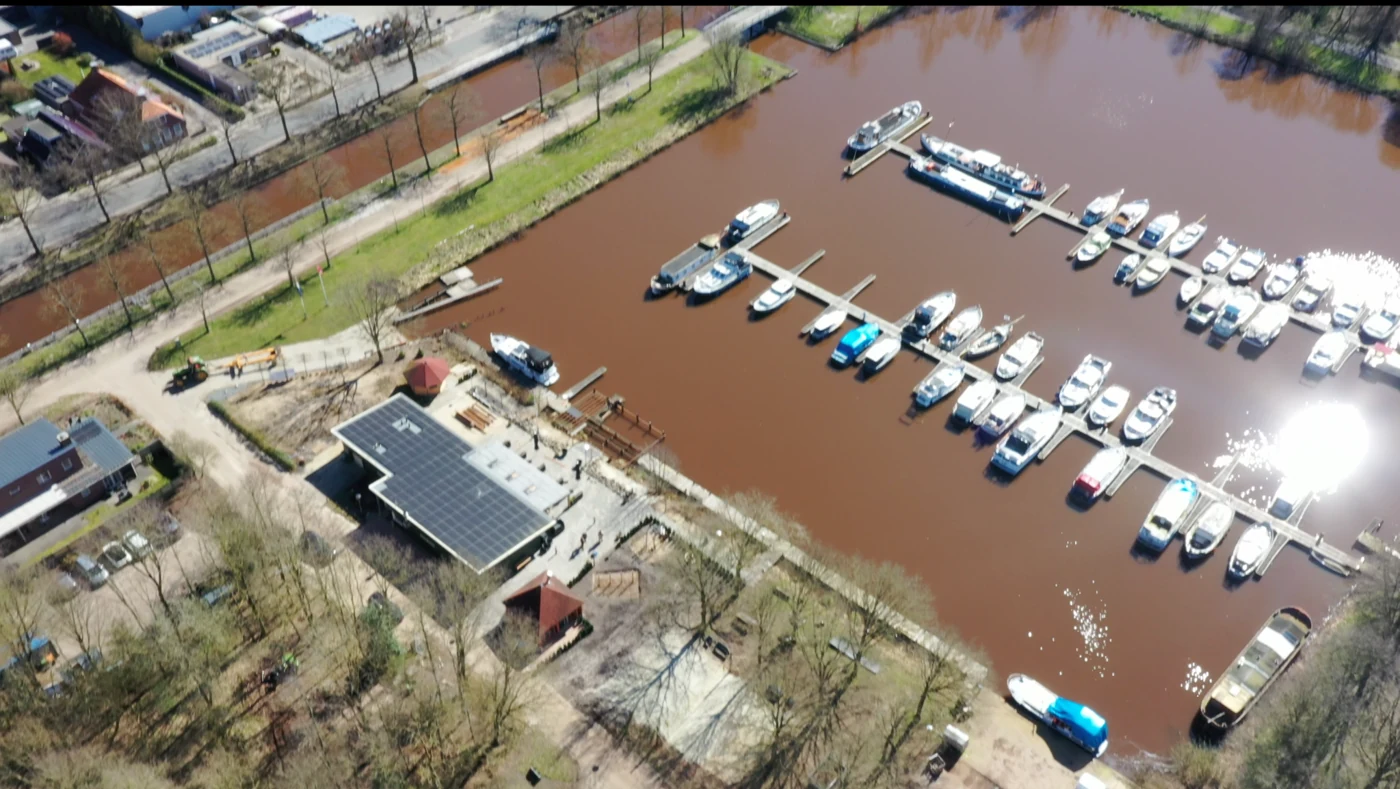
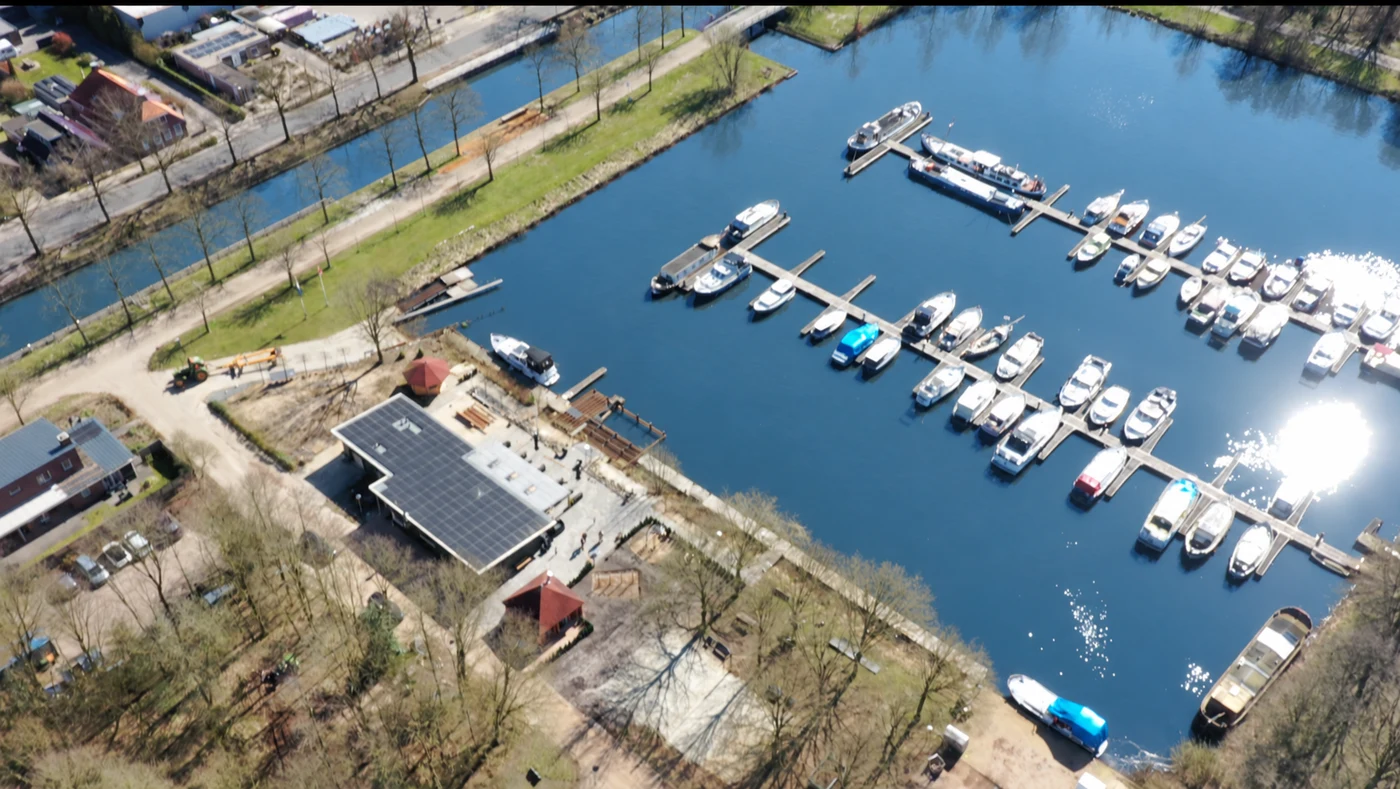
Refresh Amsterdam and marina images and reorder consultancy case studies

diff --git a/app/consultancy/CaseStudies.tsx b/app/consultancy/CaseStudies.tsx
@@ -51,12 +51,12 @@ export default async function CaseStudies() {
  const c = captions[locale] ?? captions.en;
  const unit = units[locale] ?? units.en;
  const projects = [
-  {image:'amsterdam-85-units', title:c[0]+' · 85 '+unit, location:'Amsterdam, '+c[6], width:888, height:1080},
+  {image:'amsterdam-85-units', title:c[0]+' · 85 '+unit, location:'Amsterdam, '+c[6], width:1400, height:1050},
   {image:'ijmuiden-transformatie', title:c[1]+' · '+c[3], location:'IJmuiden, '+c[6], width:1400, height:933},
-  {image:'ter-apel-jachthaven', title:c[2]+' · '+c[4], location:'Ter Apel, '+c[6], width:1400, height:789},
-  {image:'heiloo-bedrijfsverzamelgebouw', title:financing[locale] ?? financing.en, location:'Heiloo, '+c[6], width:1280, height:720},
-  {image:'alicante-beheer-exploitatie', title:management[locale] ?? management.en, location:'Alicante, '+c[7], width:1372, height:836},
   {image:'ibiza-20-units', title:c[0]+' · 20 '+unit, location:'Ibiza, '+c[7], width:1400, height:788},
+  {image:'ter-apel-jachthaven', title:c[2]+' · '+c[4], location:'Ter Apel, '+c[6], width:1400, height:789},
+  {image:'alicante-beheer-exploitatie', title:management[locale] ?? management.en, location:'Alicante, '+c[7], width:1372, height:836},
+  {image:'heiloo-bedrijfsverzamelgebouw', title:financing[locale] ?? financing.en, location:'Heiloo, '+c[6], width:1280, height:720},
  ];
  return <section className={styles.section} id="case-studies" aria-labelledby="case-studies-title">
   <div className={styles.heading}><span aria-hidden="true">04</span><h2 id="case-studies-title">Case Studies</h2></div>
